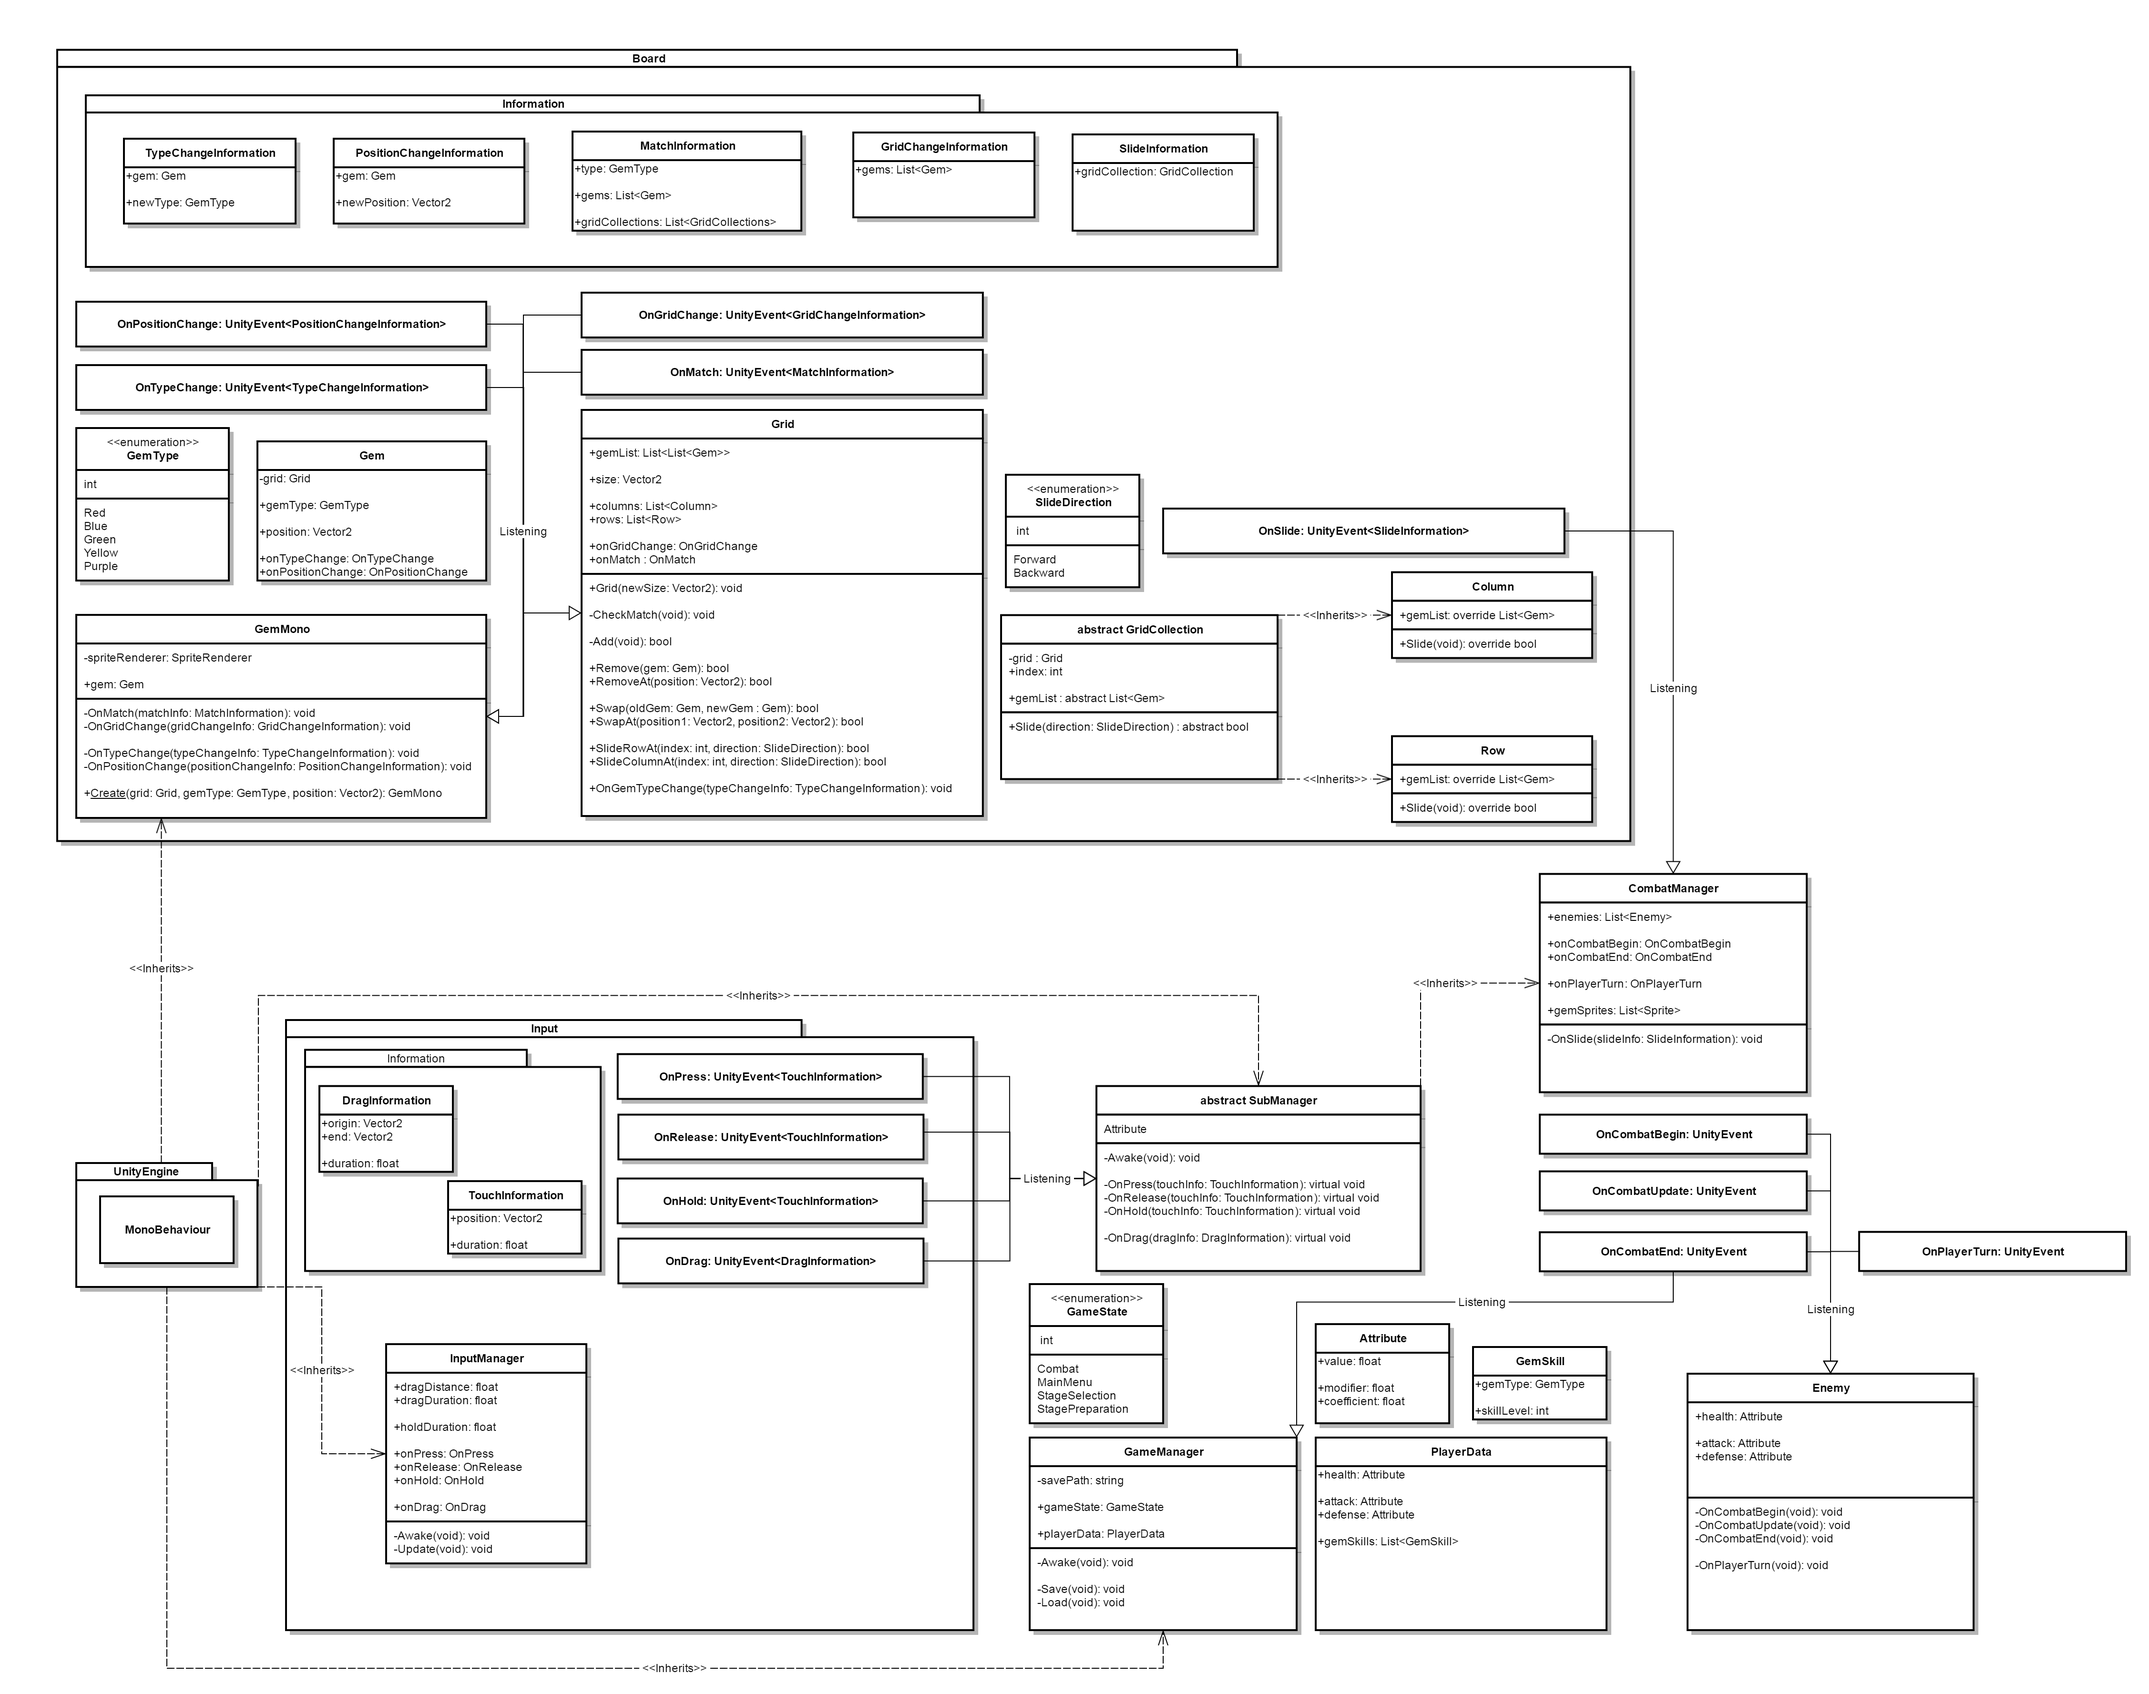
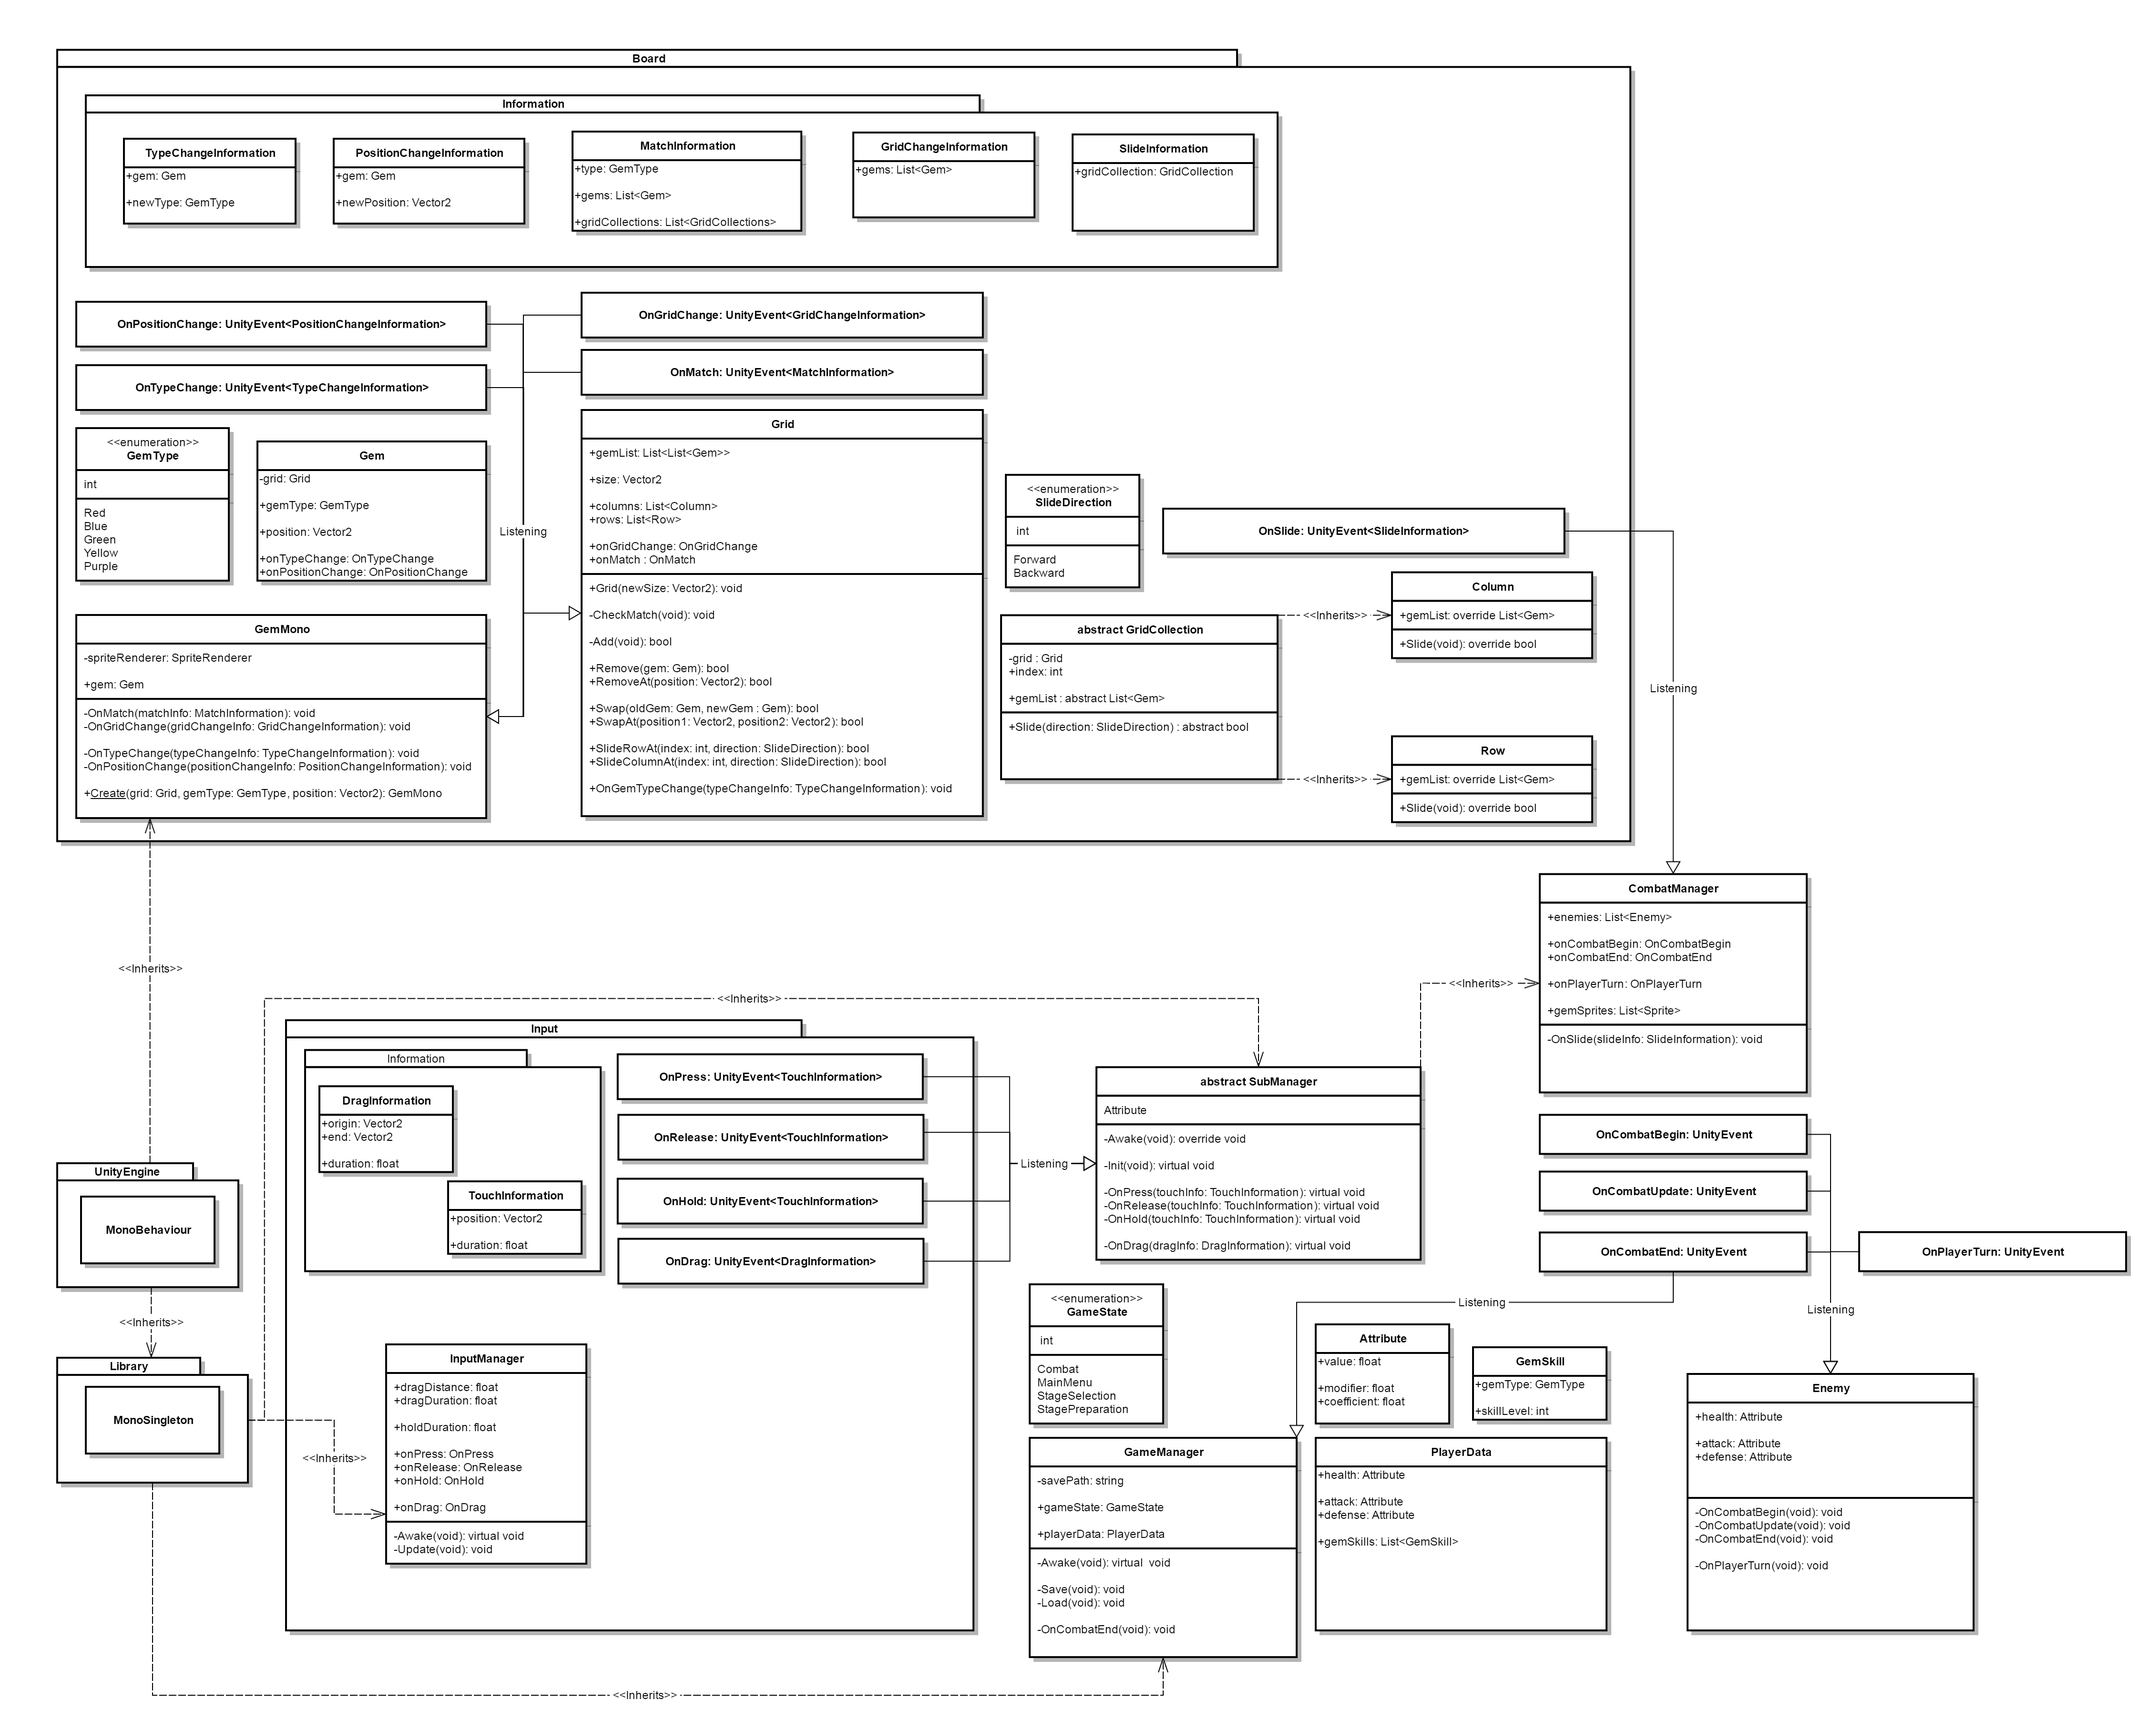
MonoSingleton
Added MonoSingleton to the UML Diagram

Added an abstract Init function to the Submanager UML and .cs

Ensured CombatManager's fields are all exposed in the editor

diff --git a/Assets/Scripts/CombatManager.cs b/Assets/Scripts/CombatManager.cs
@@ -9,27 +9,39 @@ using UnityEngine.Events;
 
 [Serializable]
 public class OnCombatBegin : UnityEvent { }
-
 [Serializable]
 public class OnCombatEnd : UnityEvent { }
-
 [Serializable]
 public class OnCombatUpdate : UnityEvent { }
-
 [Serializable]
 public class OnPlayerTurn : UnityEvent { }
 
 public class CombatManager : SubManager
 {
-    //public List<Enemy> enemies = new List<>;
-    public List<Sprite> gemSprites = new List<Sprite>();
+    [SerializeField]
+    private OnCombatBegin m_OnCombatBegin = new OnCombatBegin();
+    [SerializeField]
+    private OnCombatUpdate m_OnCombatUpdate = new OnCombatUpdate();
+    [SerializeField]
+    private OnCombatEnd m_OnCombatEnd = new OnCombatEnd();
 
-    public OnCombatBegin onCombatBegin = new OnCombatBegin();
-    public OnCombatEnd onCombatEnd = new OnCombatEnd();
-    public OnPlayerTurn onPlayerTurn = new OnPlayerTurn();
+    [SerializeField]
+    private OnPlayerTurn m_OnPlayerTurn = new OnPlayerTurn();
+
+    [SerializeField]
+    private List<Sprite> m_GemSprites = new List<Sprite>();
+
+    //TODO: public List<Enemy> enemies = new List<>;
+    public List<Sprite> gemSprites { get { return m_GemSprites; } }
+
+    public OnCombatBegin onCombatBegin { get { return m_OnCombatBegin; } }
+    public OnCombatUpdate onCombatUpdate { get { return m_OnCombatUpdate; } }
+    public OnCombatEnd onCombatEnd { get { return m_OnCombatEnd; } }
+
+    public OnPlayerTurn onPlayerTurn { get { return m_OnPlayerTurn; } }
 
     private void OnSlide(SlideInformation slideInfo)
     {
-        
+        onPlayerTurn.Invoke();
     }
 }

diff --git a/Assets/Scripts/SubManager.cs b/Assets/Scripts/SubManager.cs
@@ -1,10 +1,23 @@
 using Input;
 using Input.Information;
+using Library;
 
-using UnityEngine;
-
-public abstract class SubManager : MonoBehaviour
+public abstract class SubManager : MonoSingleton<SubManager>
 {
+    protected override void Awake()
+    {
+        base.Awake();
+
+        InputManager.self.onPress.AddListener(OnPress);
+        InputManager.self.onRelease.AddListener(OnRelease);
+        InputManager.self.onHold.AddListener(OnHold);
+        InputManager.self.onDrag.AddListener(OnDrag);
+
+        Init();
+    }
+
+    protected abstract void Init();
+
     protected virtual void OnPress(TouchInformation touchInfo)
     {
         ////TODO: This will be the function that is called when a OnPress Event is called
@@ -23,13 +36,5 @@ public abstract class SubManager : MonoBehaviour
     protected virtual void OnDrag(DragInformation slideInfo)
     {
         ////TODO: This will be the function that is called when a OnSlide Event is called
-    }
-
-    private void Awake()
-    {
-        InputManager.self.onPress.AddListener(OnPress);
-        InputManager.self.onRelease.AddListener(OnRelease);
-        InputManager.self.onHold.AddListener(OnHold);
-        InputManager.self.onDrag.AddListener(OnDrag);
     }
 }

diff --git a/Assets/Scripts/Board/Grid.cs b/Assets/Scripts/Board/Grid.cs
@@ -23,7 +23,7 @@
     public class Grid
     {
         [SerializeField]
-        private readonly List<List<Gem>> m_GemList = new List<List<Gem>>();
+        private List<List<Gem>> m_GemList = new List<List<Gem>>();
 
         [SerializeField]
         private Vector2 m_Size;
@@ -43,7 +43,7 @@
 
         public List<List<Gem>> gemList { get { return m_GemList; } }
 
-        public Vector2 size { get { return m_Size; } private set { m_Size = value; } }
+        public Vector2 size { get { return m_Size; } }
 
         public OnMatch onMatch { get { return m_OnMatch; } }
         public OnGridChange onGridChange { get { return m_OnGridChange; } }
